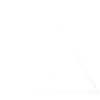
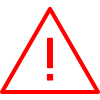
Fixed: Showing app's errors in GUI

Changed region(s): [[0.0, 0.06, 1.0, 0.96], [0.45, 0.36, 0.54, 0.69], [0.45, 0.72, 0.54, 0.81]]

diff --git a/apps/base/main.go b/apps/base/main.go
@@ -22,11 +22,16 @@ import (
 	"fmt"
 	"strconv"
 	"strings"
+	"time"
 )
 
 type Log struct {
-	Time int64
-	Text string
+	time int64
+	text string
+}
+type AppLog struct {
+	logs     []Log
+	showtime float64
 }
 
 type File struct {
@@ -34,6 +39,8 @@ type File struct {
 	Expand       bool
 	initAppTable bool
 	id           int
+
+	apps map[int]*AppLog
 }
 
 func FindInArray(arr []string, name string) int {
@@ -773,18 +780,29 @@ func Files() {
 						}
 
 						//logs
-						/*{
-							log := SA_Info("log_" + strconv.Itoa(app_i))
-							if len(log) > 0 {
-								app.logs = append(app.logs, Log{Text: log, Time: int64(SA_Time())})
-								app.logs_showtime = SA_Time()
+						{
+							log_name := fmt.Sprintf("log_%s/%d", file.Name, app_rowid)
+							log := SA_Info(log_name)
+
+							if file.apps == nil {
+								file.apps = make(map[int]*AppLog)
 							}
-							if app.logs_showtime+5 > SA_Time() {
-								if SA_ButtonAlpha("").Icon("app:resources/warning.png", 0.0).Show(1, 0, 1, 1).click {
-									SA_DialogOpen("log_"+strconv.Itoa(app_i), 0)
+							appL, found := file.apps[app_rowid]
+							if !found {
+								appL = &AppLog{}
+								file.apps[app_rowid] = appL
+							}
+
+							if len(log) > 0 {
+								appL.logs = append(appL.logs, Log{text: log, time: int64(SA_Time())})
+								appL.showtime = SA_Time()
+							}
+							if appL.showtime+5 > SA_Time() {
+								if SA_ButtonAlpha("").Icon("app:resources/warning.png", 0.1).Show(1, 0, 1, 1).click {
+									SA_DialogOpen(log_name, 0)
 								}
 							}
-							if SA_DialogStart("log_" + strconv.Itoa(app_i)) {
+							if SA_DialogStart(log_name) {
 								SA_ColMax(0, 20)
 								SA_RowMax(1, 20)
 								SA_TextCenter(trns.LOGS).Show(0, 0, 1, 1)
@@ -793,17 +811,17 @@ func Files() {
 								{
 									SA_ColMax(0, 4)
 									SA_ColMax(1, 100)
-									for i, l := range app.logs {
-										dt := time.Unix(l.Time, 0)
+									for i, l := range appL.logs {
+										dt := time.Unix(l.time, 0)
 										SA_Text(dt.Format("2006-01-02 15:04:05")).Show(0, i, 1, 1)
-										SA_Text(l.Text).Show(1, i, 1, 1)
+										SA_Text(l.text).Show(1, i, 1, 1)
 									}
 								}
 								SA_DivEnd()
 
 								SA_DialogEnd()
 							}
-						}*/
+						}
 					}
 					SA_DivEnd()
 

diff --git a/app_apis_std.go b/app_apis_std.go
@@ -17,7 +17,9 @@ limitations under the License.
 package main
 
 import (
+	"errors"
 	"fmt"
+	"strconv"
 	"strings"
 	"time"
 )
@@ -151,19 +153,31 @@ func (app *App) _sa_info_setFloat(keyMem uint64, v float64) int64 {
 	return app.info_setFloat(key, v)
 }
 
-func (app *App) info_string(key string) (string, int64) {
+func (app *App) info_string(key string, onlyLen bool) (string, int64) {
 
-	/*logSts_Id, found := strings.CutPrefix(key, "log_") //............
+	if app.name != "base" {
+		app.AddLogErr(errors.New("access denied, low privilages"))
+		return "", 0
+	}
+
+	//log
+	log, found := strings.CutPrefix(key, "log_") //log_<file.sqlite>/<approw_id>
 	if found {
-		sts_id, err := strconv.Atoi(logSts_Id)
-		if err == nil {
-			app := app.db.root.FindAppId(sts_id)
-			if app != nil {
-				return app.GetLog(), 1
+		d := strings.IndexByte(log, '/')
+		if d >= 0 {
+			db := app.db.root.FindDb(app.db.root.folderDatabases + "/" + log[:d])
+			if db != nil {
+				app_rowid, err := strconv.Atoi(log[d+1:])
+				if err == nil {
+					app2 := db.FindApp(app_rowid)
+					if app2 != nil {
+						return app2.GetLog(!onlyLen), 1
+					}
+				}
 			}
 		}
-		return "", 1
-	}*/
+		return "", 0
+	}
 
 	switch strings.ToLower(key) {
 	case "files":
@@ -187,7 +201,7 @@ func (app *App) info_string(key string) (string, int64) {
 }
 func (app *App) info_string_len(key string) int64 {
 
-	dst, ret := app.info_string(key)
+	dst, ret := app.info_string(key, true)
 	if ret > 0 {
 		return int64(len(dst))
 	}
@@ -201,7 +215,7 @@ func (app *App) _sa_info_string(keyMem uint64, dstMem uint64) int64 {
 		return -1
 	}
 
-	dst, ret := app.info_string(key)
+	dst, ret := app.info_string(key, false)
 	err = app.stringToPtr(dst, dstMem)
 	app.AddLogErr(err)
 	return ret

diff --git a/app_apis_div.go b/app_apis_div.go
@@ -179,7 +179,7 @@ func (app *App) renderEnd(baseDiv bool) {
 		st.buff.AddCrop(st.stack.crop)
 	} else {
 		if !baseDiv && (app.debug == nil || app.debug.conn != nil) {
-			app.AddLogErr(fmt.Errorf("div==nil in level: %s. Check if every 'start' has 'end'. Check return/continue/break in the middle of 'start' - 'end'", st.name))
+			app.AddLogErr(errors.New("div pair corrupted2. Check if every SA_DivStart() has SA_DivEnd(). Check return/continue/break in the middle"))
 		}
 	}
 }
@@ -237,7 +237,7 @@ func (app *App) checkGridLock() bool {
 	st := root.levels.GetStack()
 
 	if st.stack.gridLock && (app.debug == nil || app.debug.conn != nil) {
-		fmt.Println("Warning: Trying to changed col/row dimension after you already draw div into")
+		app.AddLogErr(errors.New("Trying to changed col/row dimension after you already draw div into"))
 		return false
 	}
 	return true
@@ -877,8 +877,21 @@ func (app *App) render_app(dbUrl string, app_rowid uint64) (int64, error) {
 	}
 
 	//app.db.root.levels.GetStack().rootDiv.data.app = ist
-
 	ist.Render(false)
+
+	//check if all divs were end ...
+	{
+		root := app.db.root
+		st := root.levels.GetStack()
+
+		if st != root.levels.GetStack() {
+			ist.AddLogErr(fmt.Errorf("dialog pair corrupted. Check if every SA_DialogStart() has SA_DialogEnd(). Check return/continue/break in the middle"))
+		} else if st.stack.parent != st.rootDiv {
+			//div_start/end
+			ist.AddLogErr(fmt.Errorf("div pair corrupted. Check if every SA_DivStart() has SA_DivEnd(). Check return/continue/break in the middle"))
+		}
+	}
+
 	return 1, nil
 }
 

diff --git a/root.go b/root.go
@@ -191,11 +191,18 @@ func (root *Root) GetIniPath() string {
 	return "ini.json"
 }
 
+func (root *Root) FindDb(path string) *Db {
+	db, found := root.dbs[path]
+	if found {
+		return db
+	}
+	return nil
+}
 func (root *Root) AddDb(path string) (*Db, error) {
 
 	//finds
-	db, found := root.dbs[path]
-	if found {
+	db := root.FindDb(path)
+	if db != nil {
 		return db, nil
 	}
 

diff --git a/app.go b/app.go
@@ -157,11 +157,13 @@ func (app *App) AddLogErr(err error) bool {
 	return false
 }
 
-func (app *App) GetLog() string {
+func (app *App) GetLog(remove bool) string {
 	var ret string
 	if len(app.logs) > 0 {
 		ret = app.logs[0]
-		app.logs = app.logs[1:] //cut
+		if remove {
+			app.logs = app.logs[1:] //cut
+		}
 	}
 	return ret
 }

diff --git a/app_debug.go b/app_debug.go
@@ -175,7 +175,7 @@ func (ad *AppDebug) Call(fnName string, app *App) (int64, error) {
 
 		case 3:
 			key := ad.ReadBytes()
-			dst, ret := app.info_string(string(key))
+			dst, ret := app.info_string(string(key), false)
 			ad.WriteBytes([]byte(dst))
 			ad.WriteUint64(uint64(ret))
 			ad._checkRead(fnTp)
